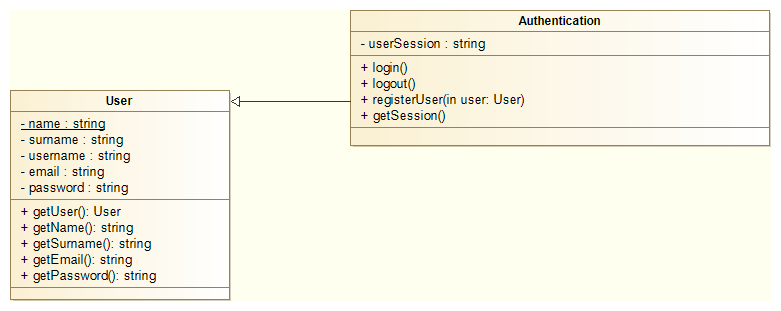
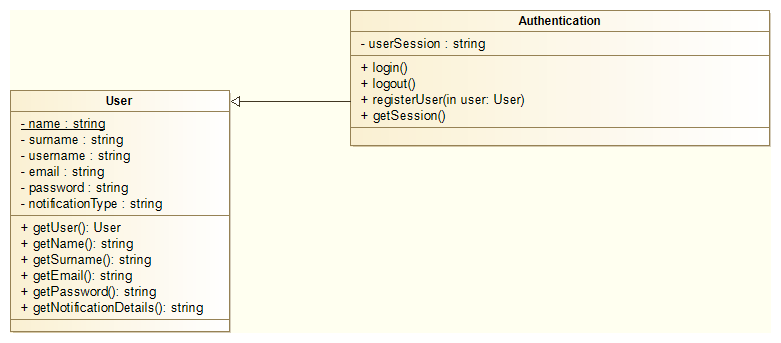
Add notification class diagram and adjusted the margin width

Changed region(s): [[0.0, 0.0289, 0.9834, 0.9839], [0.9834, 0.4341, 1.0, 0.463]]

diff --git a/Requirements Documentation/body_requirements.tex b/Requirements Documentation/body_requirements.tex
@@ -26,11 +26,11 @@
 	\newpage
 	\subsection{Classes and Objects}
 		\input{requirements/authentication/auth_co}
-		\include{requirements/projects/projects_co}
-		\include{requirements/notifications/notifications_co}
-		\include{requirements/venue_selection/venue_co}
-		\include{requirements/statistics/stats_co}		
-		\include{requirements/reporting/report_co}
+		\input{requirements/projects/projects_co}
+		\input{requirements/notifications/notifications_co}
+		\input{requirements/venue_selection/venue_co}
+		\input{requirements/statistics/stats_co}		
+		\input{requirements/reporting/report_co}
 
 	\subsection{Non-Functional Requirements}
 		\input{requirements/nonfunctional}

diff --git a/Requirements Documentation/requirements/notifications/notifications_co.tex b/Requirements Documentation/requirements/notifications/notifications_co.tex
@@ -1,0 +1,4 @@
+\subsubsection{Notifications}
+UPRM should utilise two different notification techniques namely email and sms. A Strategy Design Pattern should be implemented to enable more notifications to be added on a later stage and to enable a user to choose between different notification types.\\ \\
+\textbf{Notifications Class Diagram:}\\
+\centerline{\fbox{\includegraphics[width=\linewidth]{notifications/NotificationsClassDiagram}}}

diff --git a/Requirements Documentation/UPRM_Spec.tex b/Requirements Documentation/UPRM_Spec.tex
@@ -13,8 +13,8 @@
 \geometry{
 	a4paper,
 	total={170mm,257mm},
-	left=10mm,
-	right=10mm,
+	left=20mm,
+	right=20mm,
 	top=20mm,
 }
 
